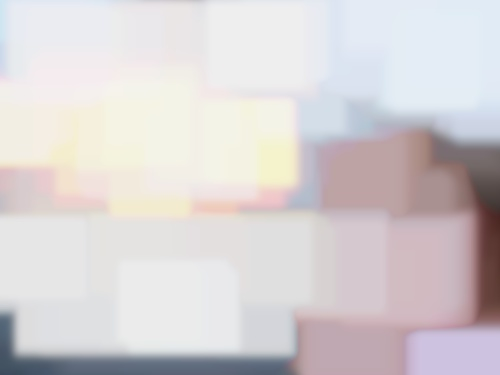
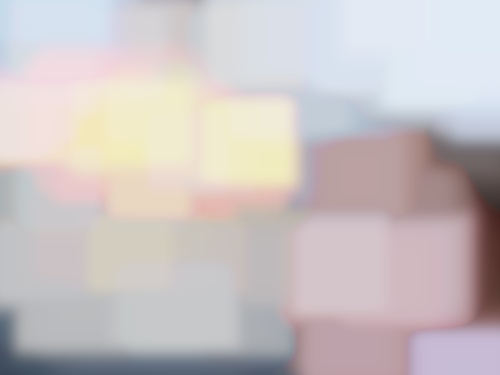
no prob

diff --git a/MEES/src/main/java/com/company/imagefilter/BlackAndWhite.java b/MEES/src/main/java/com/company/imagefilter/BlackAndWhite.java
@@ -12,10 +12,11 @@ import java.io.IOException;
 import static org.bytedeco.opencv.global.opencv_imgproc.cvtColor;
 
 public class BlackAndWhite extends Filter {
-   // public Mat filterGrayscale (Mat image, Log l) throws JavaCVHelperException {
+    //public Mat filterGrayscale() throws JavaCVHelperException {
 
+    //return  filterGrayscale();
+    //}
 
-   // }
 
     @Override
     Mat process(Mat image) throws JavaCVHelperException {

diff --git a/MEES/src/main/java/com/company/imagefilter/Blur.java b/MEES/src/main/java/com/company/imagefilter/Blur.java
@@ -11,7 +11,7 @@ public class Blur extends Filter  {
 
     @Override
     Mat process(Mat image) throws JavaCVHelperException {
-            int size = 11;
+            int size = 21;
             Mat result = image.clone();
             GaussianBlur(image, result, new Size(size, size), 0);
 
